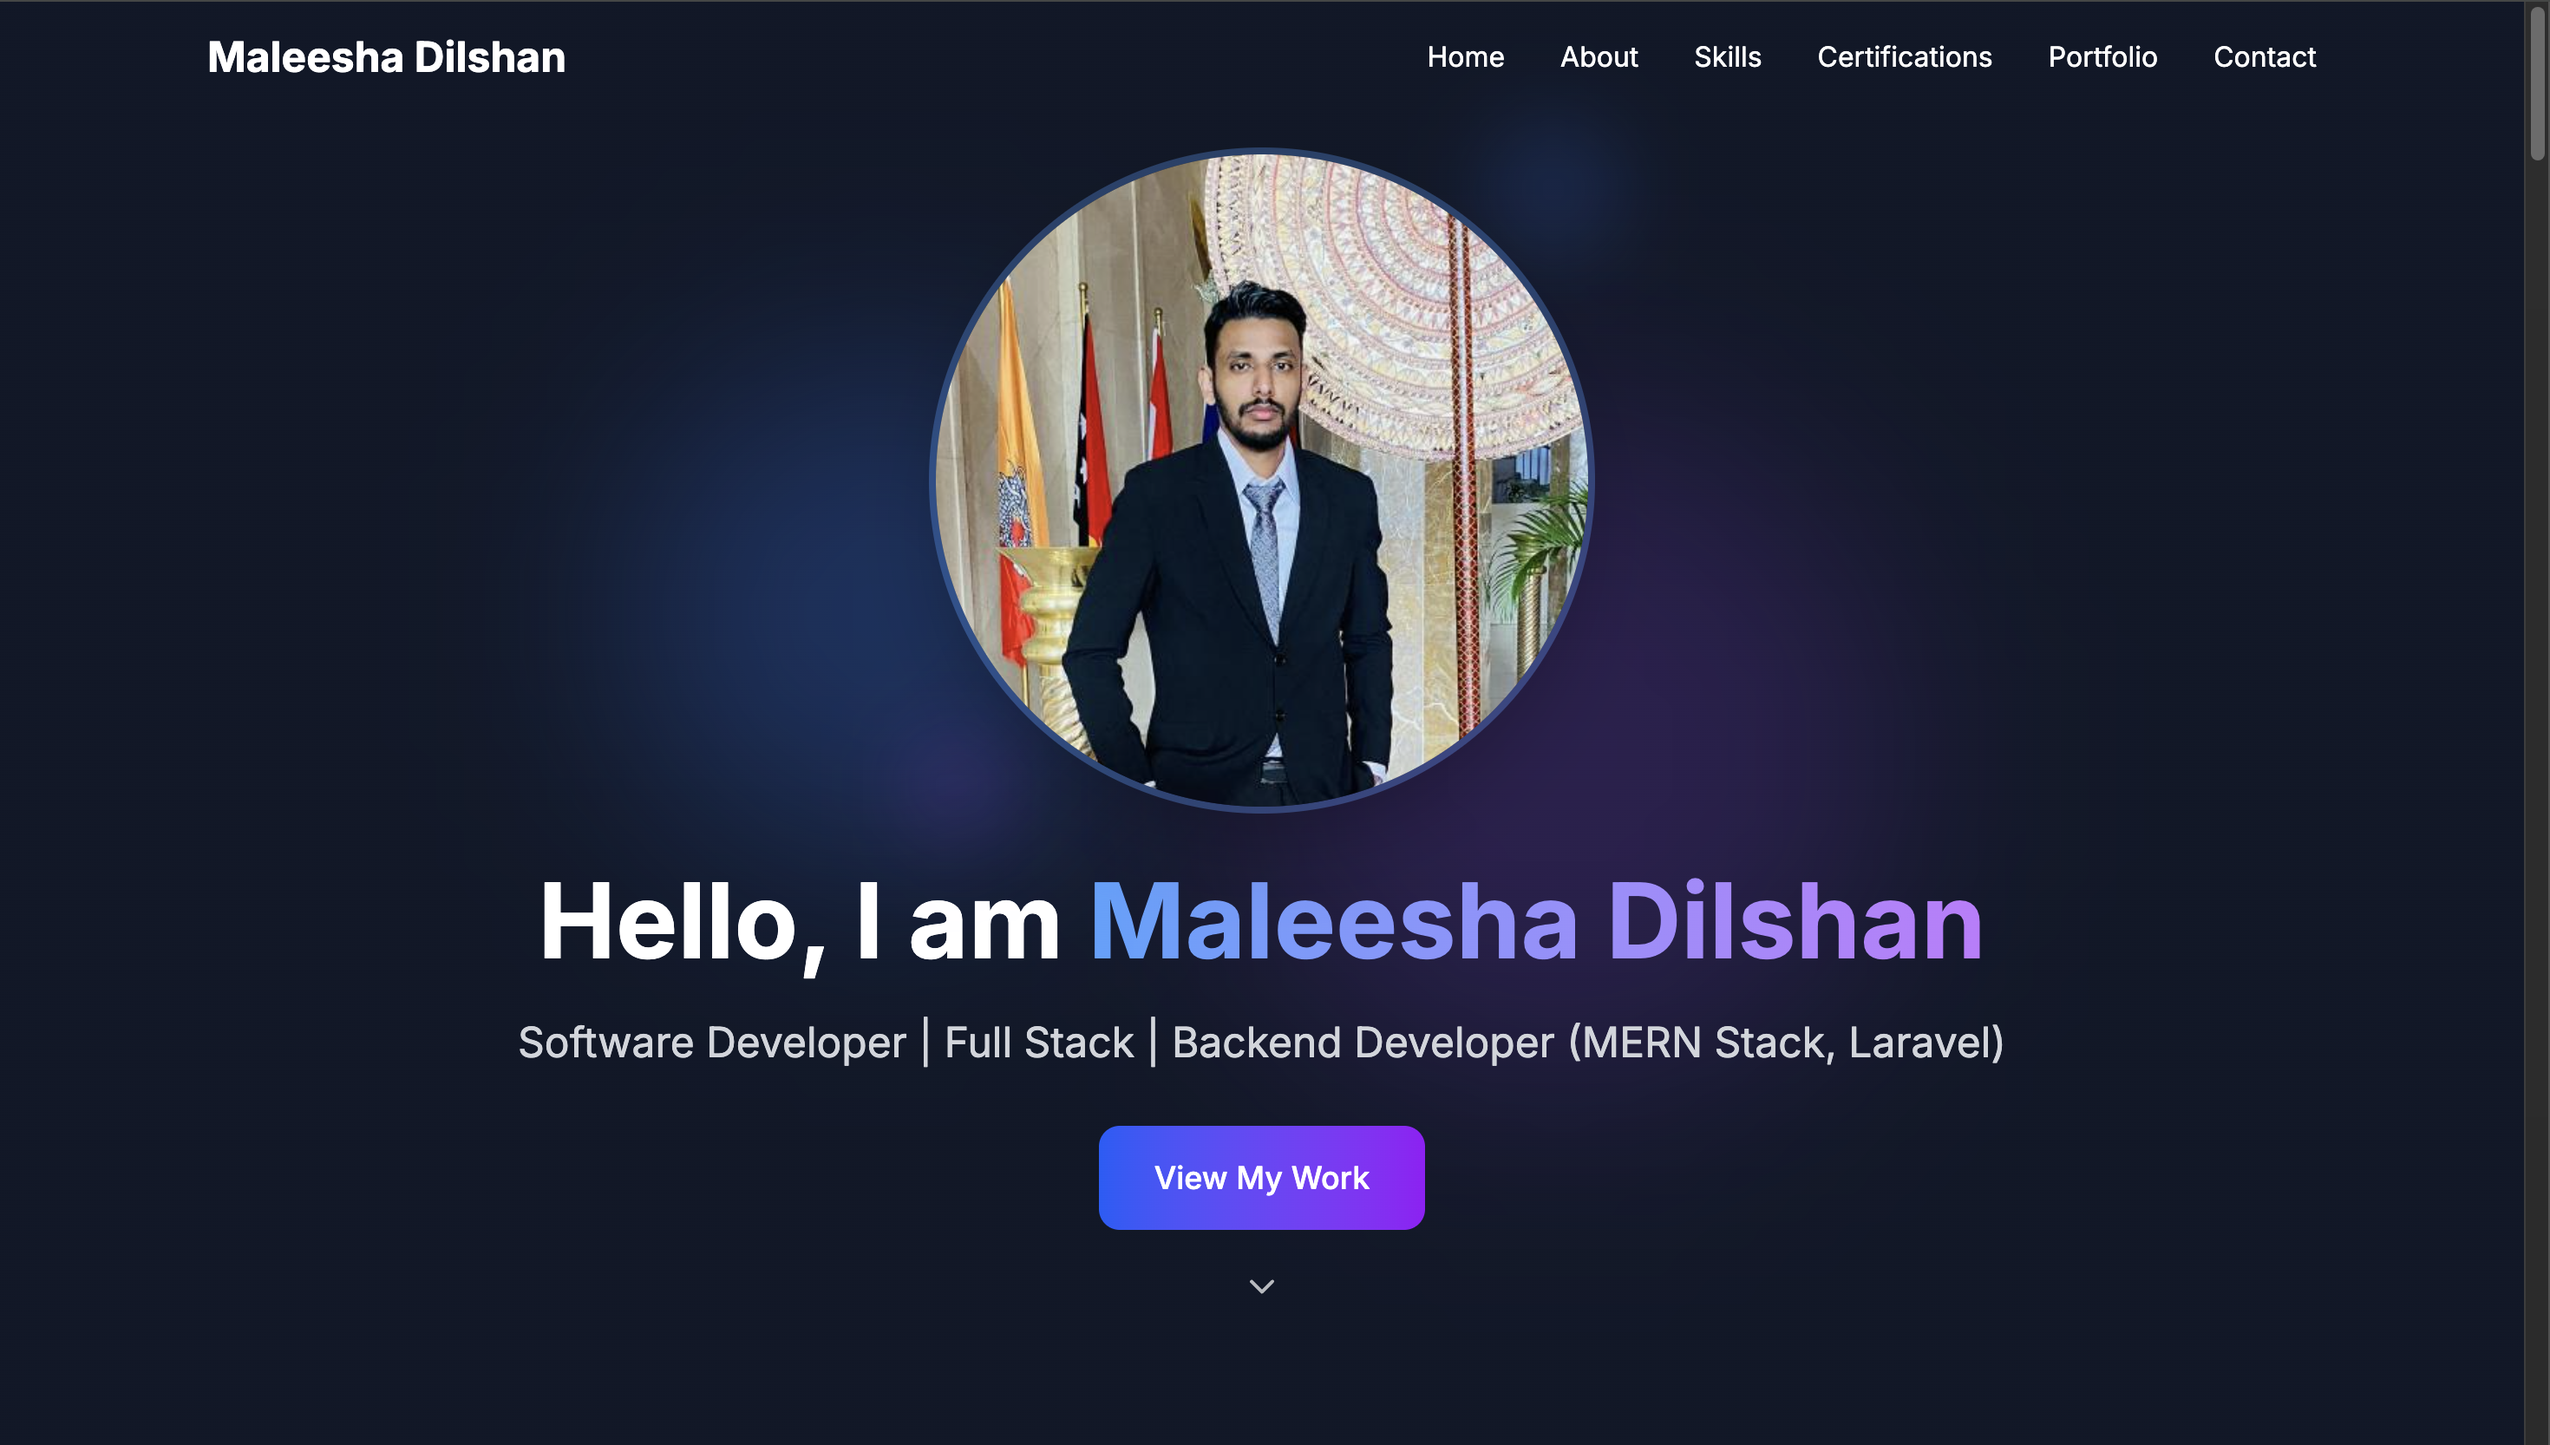
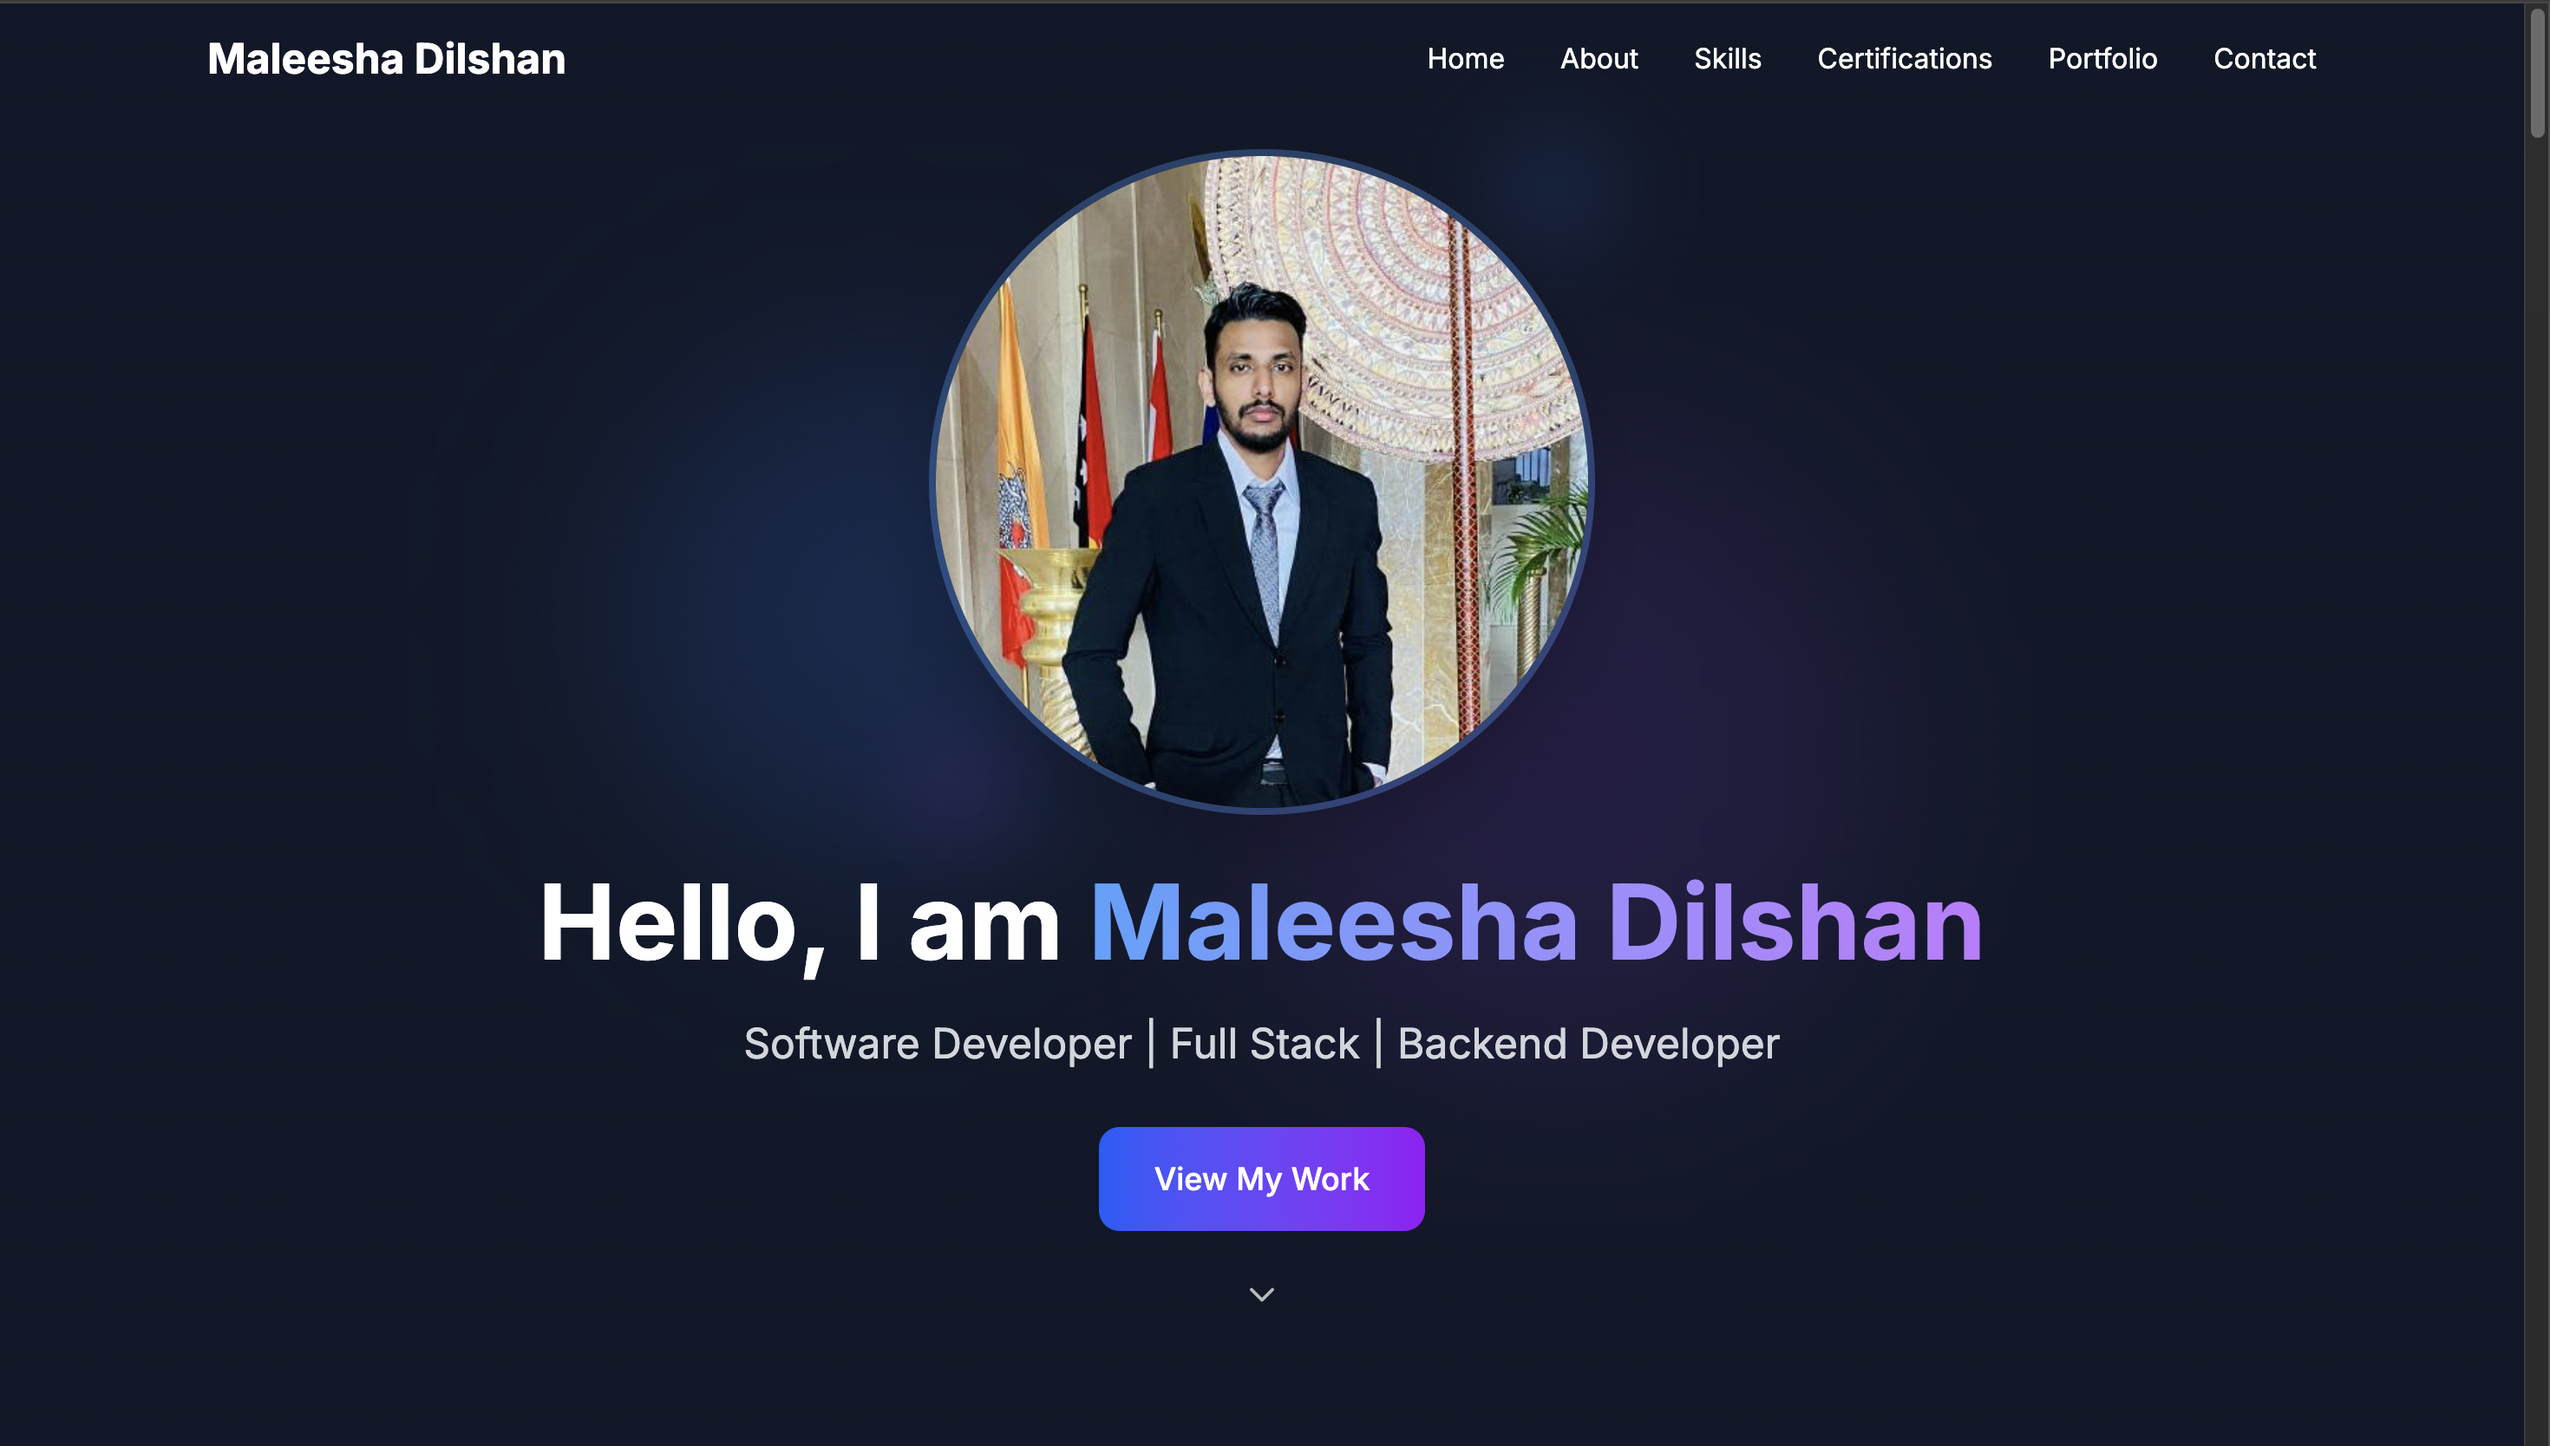
add preview image

diff --git a/index.html b/index.html
@@ -6,20 +6,21 @@
     <meta name="viewport" content="width=device-width, initial-scale=1.0" />
     <!-- SEO Meta Tags -->
     <title>Maleesha Dilshan - Software Developer | Full Stack | AI/ML Enthusiast</title>
-    <meta name="description" content="Professional portfolio of Maleesha Dilshan - Software Developer specializing in Full Stack Development and AI/ML. View my projects, skills, and certifications." />
-    <meta name="keywords" content="Maleesha Dilshan, Software Developer, Full Stack Developer, AI/ML, React, Node.js, Portfolio" />
+    <meta name="description" content="Professional portfolio of Maleesha Dilshan - Software Developer specializing in Full Stack Development. View my projects, skills, and certifications." />
+    <meta name="keywords" content="Maleesha Dilshan, Software Developer, Full Stack Developer, React, Node.js, Portfolio" />
     <meta name="author" content="Maleesha Dilshan" />
     
     <!-- Open Graph Meta Tags -->
     <meta property="og:title" content="Maleesha Dilshan - Software Developer Portfolio" />
-    <meta property="og:description" content="Professional portfolio showcasing full-stack development and AI/ML projects" />
+    <meta property="og:description" content="Professional portfolio showcasing full-stack development projects" />
     <meta property="og:type" content="website" />
-    <meta property="og:url" content="https://maleesha-portfolio.com" />
+     <meta property="og:image" content="https://my-portfolio-smoky-delta-99.vercel.app/Portfolio.png">
+    <meta property="og:url"  content="https://my-portfolio-smoky-delta-99.vercel.app/">
     
     <!-- Twitter Card Meta Tags -->
     <meta name="twitter:card" content="summary_large_image" />
     <meta name="twitter:title" content="Maleesha Dilshan - Software Developer Portfolio" />
-    <meta name="twitter:description" content="Professional portfolio showcasing full-stack development and AI/ML projects" />
+    <meta name="twitter:description" content="Professional portfolio showcasing full-stack development projects" />
     
     <!-- Google Fonts -->
     <link rel="preconnect" href="https://fonts.googleapis.com">
